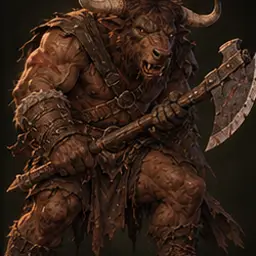
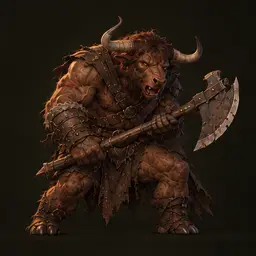
Regenerate five oversized monsters, and put zoom in the metadata
The troll, owlbear, bandit captain, drow raider and minotaur were drawn so large
that their heads sat against the top edge with nothing above them, so no amount of
aiming could centre them — there was no image left to pull down. Redone with the
creature framed smaller and a band of empty background above the head, which is
the same instruction that fixed the ogre and the hill giant.

Zoom now lives in faces.json as an optional third number and the editor has a
slider for it. One fixed zoom could never suit both: a head-and-shoulders portrait
is already most of its frame and wants almost none, while a whole-body creature is
a small shape in a big picture and wants a lot. Two-element entries still work and
mean the default, so nothing had to be rewritten.

Also closed a trap I walked into while checking this. The generated pages live in
public/, which only reaches dist/ during a build, so generating after building
served a stale page and I spent a minute believing an edit had not applied. Both
generators now write to dist as well when it exists, so the order cannot bite.

Claude-Session: https://claude.ai/code/session_01MHv1tqcgpyySy1GV2gbWz2

diff --git a/scripts/faces-editor.ts b/scripts/faces-editor.ts
@@ -13,7 +13,7 @@
  *
  * `npm run faces`, then open /faces.html.
  */
-import { writeFileSync } from 'node:fs'
+import { existsSync, writeFileSync } from 'node:fs'
 import { join } from 'node:path'
 import { BESTIARY, BESTIARY_LIST, PORTRAITS, PORTRAIT_LIST } from '@dnd/content'
 import { faceOf, portraitFor } from '../packages/web/src/art.js'
@@ -64,11 +64,14 @@ const html = `<!doctype html>
   .meta span { color:var(--dim); font-size:10.5px; }
   .meta .xy { color:var(--accent); font-size:11px; }
   .meta .xy em { color:var(--faint); font-style:normal; }
+  .zoomrow { display:flex; align-items:center; gap:8px; padding:7px 9px 0; }
+  .zoomrow input { flex:1; accent-color:var(--accent); }
+  .zval { color:var(--accent); font-size:11px; min-width:30px; text-align:right; }
 </style></head>
 <body>
 <header>
   <h1>Aim the faces</h1>
-  <span class="hint">click or drag on a picture — the circles follow</span>
+  <span class="hint">click or drag to aim · slider to zoom — the circles follow</span>
   <button id="f-all" class="on">all</button>
   <button id="f-folk">folk</button>
   <button id="f-mon">monsters</button>
@@ -81,7 +84,7 @@ const html = `<!doctype html>
 <script>
 var STORE = ${JSON.stringify(STORE)};
 var ROWS = ${JSON.stringify(rows)};
-var ZOOM_BIG = 2, ZOOM_SMALL = 2;
+
 
 function saved() {
   try { return JSON.parse(localStorage.getItem(STORE) || '{}') } catch (e) { return {} }
@@ -102,7 +105,9 @@ var cards = {};
 
 ROWS.forEach(function (row) {
   var over = saved()[row.name];
-  var x = over ? over[0] : row.face.x, y = over ? over[1] : row.face.y;
+  var x = over ? over[0] : row.face.x;
+  var y = over ? over[1] : row.face.y;
+  var z = over && over.length > 2 ? over[2] : row.face.zoom;
 
   var card = document.createElement('div');
   card.className = 'card';
@@ -116,6 +121,8 @@ ROWS.forEach(function (row) {
         '<span class="circle big"><img src="' + row.src + '" alt=""></span>' +
       '</div>' +
     '</div>' +
+    '<div class="zoomrow"><input type="range" class="zoom" min="1" max="5" step="0.1" value="' + z + '">' +
+      '<span class="zval"></span></div>' +
     '<div class="meta"><b>' + row.name + '</b><span>' + row.looks + '</span>' +
       '<span class="xy"></span></div>';
   grid.appendChild(card);
@@ -125,28 +132,40 @@ ROWS.forEach(function (row) {
   var bigImg = card.querySelector('.big img');
   var smallImg = card.querySelector('.small img');
   var xy = card.querySelector('.xy');
+  var zoom = card.querySelector('.zoom');
+  var zval = card.querySelector('.zval');
 
   function paint() {
     ring.style.left = x + '%';
     ring.style.top = y + '%';
-    bigImg.style.transform = transform(x, y, ZOOM_BIG);
-    smallImg.style.transform = transform(x, y, ZOOM_SMALL);
+    bigImg.style.transform = transform(x, y, z);
+    smallImg.style.transform = transform(x, y, z);
+    zoom.value = z;
+    zval.textContent = z.toFixed(1) + '\u00d7';
     var orig = row.face;
-    var moved = x !== orig.x || y !== orig.y;
+    var moved = x !== orig.x || y !== orig.y || z !== orig.zoom;
     card.classList.toggle('changed', moved);
-    xy.innerHTML = x + ', ' + y + (moved ? ' <em>was ' + orig.x + ', ' + orig.y + '</em>' : '');
+    xy.innerHTML = x + ', ' + y + ' @' + z.toFixed(1) + '\u00d7' +
+      (moved ? ' <em>was ' + orig.x + ', ' + orig.y + ' @' + orig.zoom.toFixed(1) + '\u00d7</em>' : '');
   }
 
   function put(event) {
     var box = stage.getBoundingClientRect();
     x = Math.round(Math.max(0, Math.min(100, ((event.clientX - box.left) / box.width) * 100)));
     y = Math.round(Math.max(0, Math.min(100, ((event.clientY - box.top) / box.height) * 100)));
+    remember();
+  }
+
+  function remember() {
     var all = saved();
-    if (x === row.face.x && y === row.face.y) { delete all[row.name] } else { all[row.name] = [x, y] }
+    if (x === row.face.x && y === row.face.y && z === row.face.zoom) { delete all[row.name] }
+    else { all[row.name] = [x, y, Math.round(z * 10) / 10] }
     store(all);
     paint();
     tally();
   }
+
+  zoom.addEventListener('input', function () { z = Number(zoom.value); remember() });
 
   stage.addEventListener('pointerdown', function (event) {
     stage.setPointerCapture(event.pointerId);
@@ -156,7 +175,7 @@ ROWS.forEach(function (row) {
     if (event.buttons === 1) put(event);
   });
 
-  cards[row.name] = { card: card, reset: function () { x = row.face.x; y = row.face.y; paint() } };
+  cards[row.name] = { card: card, reset: function () { x = row.face.x; y = row.face.y; z = row.face.zoom; paint() } };
   paint();
 });
 
@@ -202,6 +221,16 @@ document.getElementById('copy').onclick = function () {
 </body></html>
 `
 
+
+/** public/ only reaches dist/ on a build; write both so order cannot bite. */
+function writeAlsoToDist(contents: string): void {
+  const dist = join(import.meta.dirname, '../packages/web/dist')
+  if (existsSync(dist)) writeFileSync(join(dist, 'faces.html'), contents)
+}
+
 const out = join(import.meta.dirname, '../packages/web/public/faces.html')
 writeFileSync(out, html)
+// public/ only reaches dist/ during a build, so a page generated after one
+// would be served stale. Writing both ends removes the ordering trap.
+writeAlsoToDist(html)
 console.error(`faces editor: ${rows.length} portraits -> ${out}`)

diff --git a/packages/web/src/art.ts b/packages/web/src/art.ts
@@ -57,19 +57,33 @@ export function portraitFor(portrait: string | null | undefined): string | null 
   return isBeast(name) ? `/monsters/${name}.webp` : `/npcs/${name}.webp`
 }
 
-/** Where the face is, as percentages of the image. */
+/**
+ * Where the face is, as percentages of the image, and how close to crop in.
+ *
+ * Zoom is per portrait because the subjects are not framed alike: a
+ * head-and-shoulders innkeeper is already most of the frame and wants barely any,
+ * while a whole-body displacer beast is a small shape in a big picture and wants
+ * a lot. One number for all of them makes half the library wrong.
+ */
 export interface Face {
   x: number
   y: number
+  zoom: number
 }
 
+/** How close to crop when nothing says otherwise. */
+export const DEFAULT_ZOOM = 2
+
 /** The middle of the frame, for a name with no entry. */
-const CENTRE: Face = { x: 50, y: 50 }
+const CENTRE: Face = { x: 50, y: 50, zoom: DEFAULT_ZOOM }
 
 const FACES: Record<string, Face> = Object.fromEntries(
   [...Object.entries(folkFaces), ...Object.entries(monsterFaces)]
     .filter(([key, value]) => key !== '_' && Array.isArray(value))
-    .map(([key, value]) => [key, { x: (value as number[])[0]!, y: (value as number[])[1]! }]),
+    .map(([key, value]) => {
+      const [x, y, zoom] = value as number[]
+      return [key, { x: x!, y: y!, zoom: zoom ?? DEFAULT_ZOOM }]
+    }),
 )
 
 /**
@@ -102,8 +116,9 @@ export function faceOf(portrait: string | null | undefined): Face {
  * far it sits from the middle. The translate is a percentage of the element,
  * and happens before the scale, which is why it is not multiplied by the zoom.
  */
-export function faceTransform(portrait: string | null | undefined, zoom = 2): string {
+export function faceTransform(portrait: string | null | undefined, override?: number): string {
   const face = faceOf(portrait)
+  const zoom = override ?? face.zoom
   // How far the image can be shifted before its edge comes inside the box and
   // the background shows through. Scaling by z leaves (z - 1) of overflow, half
   // of it on each side, and the translate is scaled too — hence the 2z. Without

diff --git a/packages/web/src/art.test.ts b/packages/web/src/art.test.ts
@@ -9,6 +9,7 @@ import {
   backdropFor,
   hash,
   itemArtFor,
+  DEFAULT_ZOOM,
   faceOf,
   faceTransform,
   hasFace,
@@ -155,8 +156,8 @@ describe('portraitFor', () => {
   })
 
   it('falls back to the centre rather than nothing', () => {
-    expect(faceOf('not-a-real-name')).toEqual({ x: 50, y: 50 })
-    expect(faceOf(null)).toEqual({ x: 50, y: 50 })
+    expect(faceOf('not-a-real-name')).toEqual({ x: 50, y: 50, zoom: DEFAULT_ZOOM })
+    expect(faceOf(null)).toEqual({ x: 50, y: 50, zoom: DEFAULT_ZOOM })
     expect(hasFace('not-a-real-name')).toBe(false)
     expect(hasFace(null)).toBe(false)
   })
@@ -244,5 +245,33 @@ describe('itemArtFor', () => {
     for (const name of ITEM_ASSETS) {
       expect(existsSync(asset(`/items/${name}.svg`)), `${name}.webp is missing`).toBe(true)
     }
+  })
+})
+
+describe('zoom in the metadata', () => {
+  it('defaults when the entry does not say', () => {
+    // Entries are [x, y] or [x, y, zoom]; the two-element form is the common one
+    // and has to keep working.
+    expect(faceOf('not-a-real-name').zoom).toBe(DEFAULT_ZOOM)
+    for (const name of [...PORTRAIT_LIST, ...BESTIARY_LIST]) {
+      expect(faceOf(name).zoom, name).toBeGreaterThanOrEqual(1)
+      expect(faceOf(name).zoom, name).toBeLessThanOrEqual(5)
+    }
+  })
+
+  it('uses the portrait’s own zoom unless told otherwise', () => {
+    const name = BESTIARY_LIST[0]!
+    const own = faceOf(name).zoom
+    expect(faceTransform(name)).toContain(`scale(${own})`)
+    expect(faceTransform(name, 3)).toContain('scale(3)')
+  })
+
+  it('clamps against whatever zoom is in play, not a fixed one', () => {
+    // The shift limit comes from the zoom, so a tighter crop can reach further.
+    const reach = (zoom: number): number => {
+      const [, , dy] = /translate\((-?[\d.]+)%, (-?[\d.]+)%\)/.exec(faceTransform('ogre', zoom))!
+      return Math.abs(Number(dy))
+    }
+    expect(reach(3)).toBeGreaterThan(reach(1.5))
   })
 })

diff --git a/scripts/gallery.ts b/scripts/gallery.ts
@@ -8,7 +8,7 @@
  *
  * `npm run gallery`, then open /gallery.html on the table's own port.
  */
-import { writeFileSync } from 'node:fs'
+import { existsSync, writeFileSync } from 'node:fs'
 import { existsSync } from 'node:fs'
 import { join } from 'node:path'
 import { BESTIARY, BESTIARY_LIST, PORTRAITS, PORTRAIT_LIST } from '@dnd/content'
@@ -52,7 +52,7 @@ function portraitCard(name: string, looks: string): string {
         style="transform:${faceTransform(name)}"></span>
       <i class="pin" style="left:${face.x}%;top:${face.y}%"></i>
     </div>`
-  return card(src, name, looks, pair)
+  return card(src, `${name}  ${face.zoom}\u00d7`, looks, pair)
 }
 
 const folk = `<section><h2>Folk<small>${PORTRAIT_LIST.length} portraits · /npcs</small></h2>
@@ -112,8 +112,18 @@ const html = `<!doctype html>
 </body></html>
 `
 
+
+/** public/ only reaches dist/ on a build; write both so order cannot bite. */
+function writeAlsoToDist(contents: string): void {
+  const dist = join(import.meta.dirname, '../packages/web/dist')
+  if (existsSync(dist)) writeFileSync(join(dist, 'gallery.html'), contents)
+}
+
 const out = join(PUBLIC, 'gallery.html')
 writeFileSync(out, html)
+// public/ only reaches dist/ during a build, so a page generated after one
+// would be served stale. Writing both ends removes the ordering trap.
+writeAlsoToDist(html)
 const cards = SETUP_TABS.filter((t) => t.imageFor !== undefined).reduce((n, t) => n + t.options.length, 0)
 console.error(
   `gallery: ${cards} menu cards, ${PORTRAIT_LIST.length} folk, ${BESTIARY_LIST.length} creatures -> ${out}`,

diff --git a/scripts/faces-apply.ts b/scripts/faces-apply.ts
@@ -19,7 +19,7 @@ if (input === '') {
   process.exit(1)
 }
 
-const overrides = JSON.parse(input) as Record<string, [number, number]>
+const overrides = JSON.parse(input) as Record<string, [number, number, number?]>
 
 const unknown = Object.keys(overrides).filter((n) => !(n in PORTRAITS) && !(n in BESTIARY))
 if (unknown.length > 0) {
@@ -27,12 +27,14 @@ if (unknown.length > 0) {
   process.exit(1)
 }
 
-const bad = Object.entries(overrides).filter(
-  ([, xy]) =>
-    !Array.isArray(xy) ||
-    xy.length !== 2 ||
-    xy.some((n) => typeof n !== 'number' || n < 0 || n > 100),
-)
+const bad = Object.entries(overrides).filter(([, xy]) => {
+  if (!Array.isArray(xy) || xy.length < 2 || xy.length > 3) return true
+  const [x, y, zoom] = xy
+  if (![x, y].every((n) => typeof n === 'number' && n >= 0 && n <= 100)) return true
+  // A zoom under 1 would shrink the image inside its own box and show the
+  // background; over 5 is past anything the editor offers.
+  return zoom !== undefined && (typeof zoom !== 'number' || zoom < 1 || zoom > 5)
+})
 if (bad.length > 0) {
   console.error(`out of range: ${bad.map(([n]) => n).join(', ')}`)
   process.exit(1)

diff --git a/.claude/skills/make-art/SKILL.md b/.claude/skills/make-art/SKILL.md
@@ -134,6 +134,11 @@ metadata will save it. Regenerate those: a 2×2 is plenty, and the instruction t
 that the *entire* creature including the top of its head must sit inside its own cell with
 clear space above it, framing smaller if that is what it takes.
 
+**Zoom is per portrait too**, stored as an optional third number in `faces.json`
+(`[x, y, zoom]`, defaulting to 2). A head-and-shoulders portrait is already most of its
+frame and wants almost none; a whole-body creature is a small shape in a big picture and
+wants a lot. The editor has a slider for it.
+
 **Clamp the translate.** Scaling by `z` leaves `(z - 1)` of overflow, half on each side, and
 the translate is scaled too — so the shift cannot exceed `(z - 1) / 2z`. Past that the image
 edge comes inside the box and the circle gets a bite of background taken out of it. Most of
